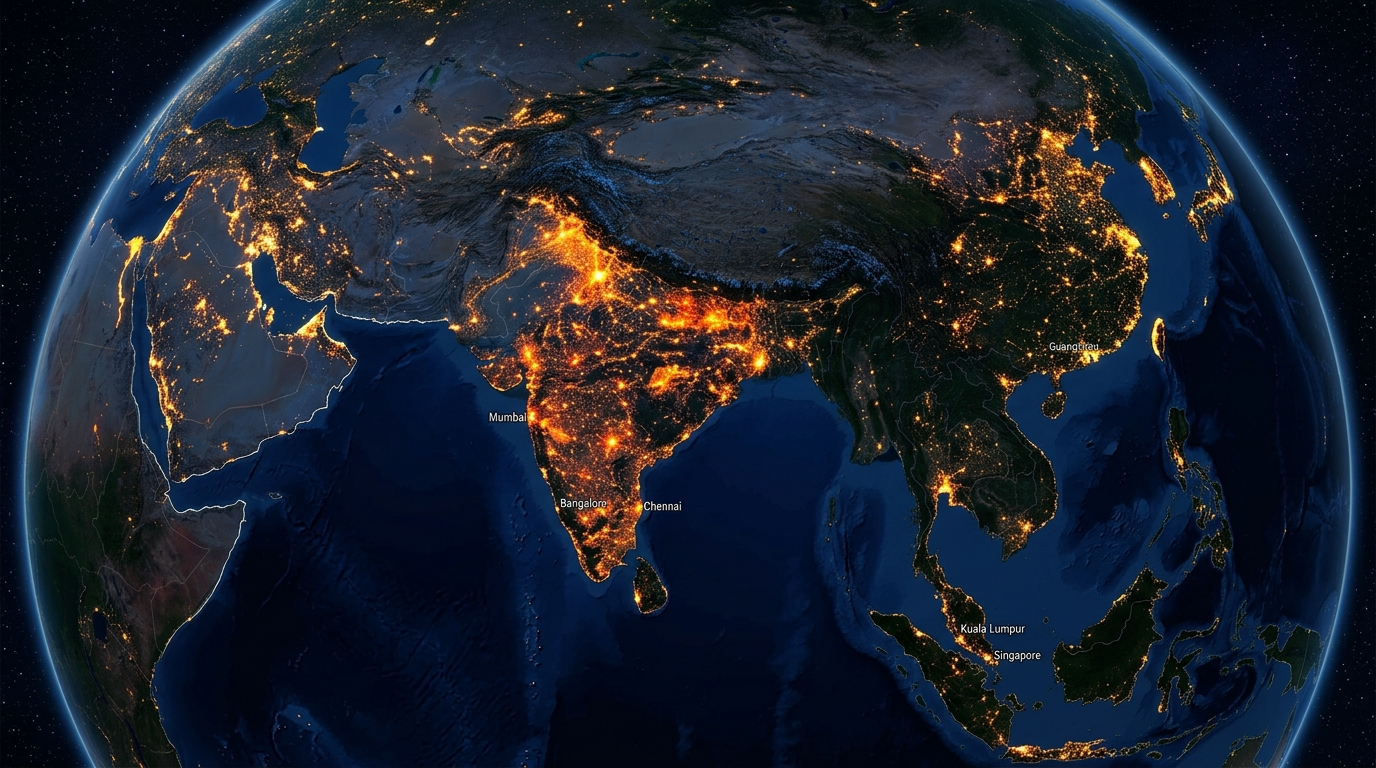
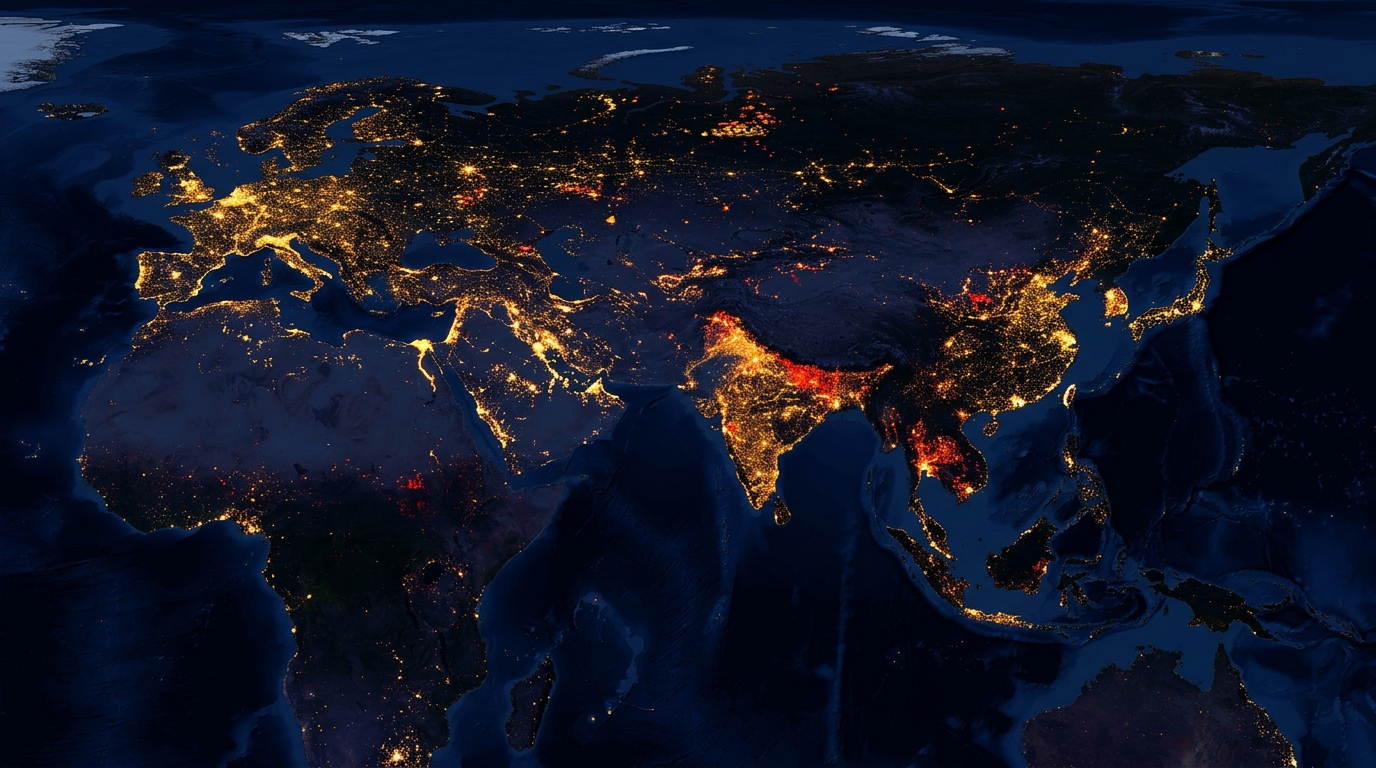
fix(landing): remove city labels from Earth texture, remove scroll mouse text, and intensify reddish-orange fiery wordmark and glowing tagline

diff --git a/src/components/landing/CinematicLanding.tsx b/src/components/landing/CinematicLanding.tsx
@@ -28,7 +28,6 @@ export const CinematicLanding: React.FC<CinematicLandingProps> = ({
   const wordmarkRef = useRef<HTMLDivElement>(null);
   const taglineRef = useRef<HTMLDivElement>(null);
   const exploreBtnRef = useRef<HTMLButtonElement>(null);
-  const scrollIndicatorRef = useRef<HTMLDivElement>(null);
   const darkTransitionOverlayRef = useRef<HTMLDivElement>(null);
 
   const handleExploreClick = () => {
@@ -57,18 +56,6 @@ export const CinematicLanding: React.FC<CinematicLandingProps> = ({
         duration: 0.4,
         ease: 'power2.in',
       });
-    }
-
-    if (scrollIndicatorRef.current) {
-      tl.to(
-        scrollIndicatorRef.current,
-        {
-          opacity: 0,
-          y: 15,
-          duration: 0.3,
-        },
-        0
-      );
     }
 
     // 2. FLAREX Wordmark surges forward into the globe (0.2 - 1.2s)
@@ -155,7 +142,7 @@ export const CinematicLanding: React.FC<CinematicLandingProps> = ({
       {/* Minimal Transparent Header */}
       <LandingHeader onMenuClick={handleExploreClick} />
 
-      {/* 3D High-Clarity WebGL Earth */}
+      {/* 3D High-Clarity WebGL Earth (Clean satellite night map without place names) */}
       <div className="absolute inset-0 z-10">
         <CinematicEarth isTransitioning={hasStartedDive || isTransitioning} />
       </div>
@@ -164,32 +151,30 @@ export const CinematicLanding: React.FC<CinematicLandingProps> = ({
       <div className="absolute inset-0 z-15 pointer-events-none bg-[radial-gradient(ellipse_at_center,_transparent_45%,_rgba(2,2,2,0.85)_100%)]" />
 
       {/* Foreground Hero Content: Big FLAREX Wordmark Visible FROM THE VERY FIRST FRAME */}
-      <div className="relative z-20 flex flex-col items-center justify-between w-full h-full px-6 pt-20 pb-8 pointer-events-none">
-        <div className="flex-1" />
-
+      <div className="relative z-20 flex flex-col items-center justify-center w-full h-full px-6 pointer-events-none">
         {/* Center Container: Brand Fused into Globe Intro */}
         <div
           ref={heroStackRef}
-          className="flex flex-col items-center justify-center text-center max-w-4xl w-full my-auto"
+          className="flex flex-col items-center justify-center text-center max-w-4xl w-full"
         >
           {/* Flame Icon */}
           <div
             ref={flameEmblemRef}
             className="relative mb-2 flex items-center justify-center pointer-events-auto transition-transform duration-300"
           >
-            <div className="absolute w-14 h-14 rounded-full bg-[#ff5533]/30 blur-xl animate-pulse" />
+            <div className="absolute w-14 h-14 rounded-full bg-[#ff5533]/35 blur-xl animate-pulse" />
             <Flame
               size={36}
-              className="text-[#ff5533] fill-[#ff7a22] drop-shadow-[0_0_24px_rgba(255,95,30,1)] animate-pulse"
+              className="text-[#ff5533] fill-[#ff7a22] drop-shadow-[0_0_26px_rgba(255,95,30,1)] animate-pulse"
             />
           </div>
 
-          {/* Large Cinematic FLAREX Wordmark (Visible Immediately) */}
+          {/* Large Cinematic Full Reddish-Orange FLAREX Wordmark with Outline Glow */}
           <div
             ref={wordmarkRef}
-            className="fiery-wordmark select-none text-center transform transition-all duration-300 pointer-events-auto"
+            className="fiery-wordmark select-none text-center transform transition-all duration-300 pointer-events-auto my-1"
           >
-            <h1 className="text-5xl sm:text-7xl md:text-8xl font-semibold tracking-[0.18em] uppercase flex items-center justify-center">
+            <h1 className="text-5xl sm:text-7xl md:text-8xl font-bold tracking-[0.18em] uppercase flex items-center justify-center">
               <span className="fiery-letter-body">F</span>
               <span className="fiery-letter-body">L</span>
               <span className="fiery-letter-body">A</span>
@@ -199,17 +184,17 @@ export const CinematicLanding: React.FC<CinematicLandingProps> = ({
             </h1>
           </div>
 
-          {/* Tagline (Visible Immediately) */}
+          {/* Glowing Tagline for Maximum Visibility */}
           <div
             ref={taglineRef}
-            className="mt-3 text-[9.5px] sm:text-xs font-semibold tracking-[0.3em] text-[#d4c3bd] uppercase font-[family-name:var(--font-oxanium),sans-serif]"
+            className="fiery-tagline mt-3 transition-all duration-300"
           >
             IGNITING{' '}
-            <span className="text-[#ff681e] drop-shadow-[0_0_8px_rgba(255,104,30,0.85)] font-bold">
+            <span className="fiery-tagline-highlight">
               INTELLIGENCE
             </span>
             . PROTECTING{' '}
-            <span className="text-[#ff681e] drop-shadow-[0_0_8px_rgba(255,104,30,0.85)] font-bold">
+            <span className="fiery-tagline-highlight">
               TOMORROW
             </span>
             .
@@ -222,28 +207,14 @@ export const CinematicLanding: React.FC<CinematicLandingProps> = ({
               type="button"
               onClick={handleExploreClick}
               disabled={hasStartedDive}
-              className="group relative px-11 py-3.5 rounded-xl text-xs sm:text-sm font-bold tracking-[0.28em] text-[#fbf5f2] uppercase bg-[#080808]/45 border border-[#ff681e]/40 backdrop-blur-md shadow-[0_0_22px_rgba(255,85,35,0.25)] hover:shadow-[0_0_38px_rgba(255,106,26,0.8)] hover:border-[#ff8b32] hover:bg-[#140603]/80 transition-all duration-300 transform hover:scale-105 active:scale-95 font-[family-name:var(--font-oxanium),sans-serif]"
+              className="group relative px-12 py-3.5 rounded-xl text-xs sm:text-sm font-bold tracking-[0.28em] text-[#fbf5f2] uppercase bg-[#080808]/50 border border-[#ff681e]/45 backdrop-blur-md shadow-[0_0_25px_rgba(255,85,35,0.3)] hover:shadow-[0_0_40px_rgba(255,106,26,0.85)] hover:border-[#ff8b32] hover:bg-[#140603]/85 transition-all duration-300 transform hover:scale-105 active:scale-95 font-[family-name:var(--font-oxanium),sans-serif]"
             >
               <span className="relative z-10 flex items-center gap-2">
                 EXPLORE
               </span>
-              <div className="absolute inset-0 rounded-xl bg-gradient-to-r from-transparent via-[#ff681e]/20 to-transparent opacity-0 group-hover:opacity-100 transition-opacity duration-300" />
+              <div className="absolute inset-0 rounded-xl bg-gradient-to-r from-transparent via-[#ff681e]/25 to-transparent opacity-0 group-hover:opacity-100 transition-opacity duration-300" />
             </button>
           </div>
-        </div>
-
-        {/* Bottom Scroll Indicator */}
-        <div
-          ref={scrollIndicatorRef}
-          onClick={handleExploreClick}
-          className="flex flex-col items-center gap-1.5 pointer-events-auto cursor-pointer text-[#8c766e] hover:text-[#ff7a45] transition-colors"
-        >
-          <div className="w-4 h-7 rounded-full border border-white/20 flex items-start justify-center p-1">
-            <div className="w-1 h-1.5 rounded-full bg-[#ff681e] animate-bounce mt-0.5" />
-          </div>
-          <span className="text-[8px] font-bold tracking-[0.22em] uppercase font-[family-name:var(--font-oxanium),sans-serif]">
-            SCROLL TO DISCOVER
-          </span>
         </div>
       </div>
 

diff --git a/src/components/landing/CinematicEarth.tsx b/src/components/landing/CinematicEarth.tsx
@@ -6,10 +6,9 @@ import gsap from 'gsap';
 
 interface CinematicEarthProps {
   isTransitioning: boolean;
-  phase?: 'idle' | 'forming' | 'revealed' | 'diving';
 }
 
-export const CinematicEarth: React.FC<CinematicEarthProps> = ({ isTransitioning, phase = 'idle' }) => {
+export const CinematicEarth: React.FC<CinematicEarthProps> = ({ isTransitioning }) => {
   const containerRef = useRef<HTMLDivElement>(null);
   const sceneRef = useRef<THREE.Scene | null>(null);
   const cameraRef = useRef<THREE.PerspectiveCamera | null>(null);
@@ -21,9 +20,9 @@ export const CinematicEarth: React.FC<CinematicEarthProps> = ({ isTransitioning,
 
   const isDraggingRef = useRef(false);
   const previousMousePositionRef = useRef({ x: 0, y: 0 });
-  // Fine-tuned angles so India is squarely front-and-center
-  const targetRotationRef = useRef({ x: 0.16, y: 4.72 });
-  const currentRotationRef = useRef({ x: 0.16, y: 4.72 });
+  // Set default rotation so India is perfectly centered facing the camera
+  const targetRotationRef = useRef({ x: 0.22, y: 4.22 });
+  const currentRotationRef = useRef({ x: 0.22, y: 4.22 });
   const idleTimerRef = useRef<NodeJS.Timeout | null>(null);
   const isIdleRef = useRef(true);
 
@@ -50,7 +49,7 @@ export const CinematicEarth: React.FC<CinematicEarthProps> = ({ isTransitioning,
     renderer.setSize(width, height);
     renderer.setPixelRatio(Math.min(window.devicePixelRatio, 2));
     renderer.toneMapping = THREE.ACESFilmicToneMapping;
-    renderer.toneMappingExposure = 1.3;
+    renderer.toneMappingExposure = 1.35;
     renderer.outputColorSpace = THREE.SRGBColorSpace;
     container.appendChild(renderer.domElement);
     rendererRef.current = renderer;
@@ -63,19 +62,9 @@ export const CinematicEarth: React.FC<CinematicEarthProps> = ({ isTransitioning,
     scene.add(earthGroup);
     earthGroupRef.current = earthGroup;
 
-    // 4. TEXTURE LOADER
+    // 4. CLEAN NASA SATELLITE NIGHT MAP (ZERO LABELS / PLACE NAMES)
     const textureLoader = new THREE.TextureLoader();
-    
-    // High-clarity satellite map centered on India & Asia
     const earthTexture = textureLoader.load('/cinematic/earth_hd_clarity.jpg', (tex) => {
-      tex.colorSpace = THREE.SRGBColorSpace;
-      tex.anisotropy = maxAnisotropy;
-      tex.minFilter = THREE.LinearMipmapLinearFilter;
-      tex.magFilter = THREE.LinearFilter;
-      tex.generateMipmaps = true;
-    });
-
-    const nightTexture = textureLoader.load('/cinematic/earth_night_map.jpg', (tex) => {
       tex.colorSpace = THREE.SRGBColorSpace;
       tex.anisotropy = maxAnisotropy;
       tex.wrapS = THREE.RepeatWrapping;
@@ -91,8 +80,7 @@ export const CinematicEarth: React.FC<CinematicEarthProps> = ({ isTransitioning,
     const earthMaterial = new THREE.ShaderMaterial({
       uniforms: {
         map: { value: earthTexture },
-        nightMap: { value: nightTexture },
-        sunDirection: { value: new THREE.Vector3(-0.82, 0.68, 0.42).normalize() },
+        sunDirection: { value: new THREE.Vector3(-0.85, 0.65, 0.45).normalize() },
       },
       vertexShader: `
         varying vec2 vUv;
@@ -107,7 +95,6 @@ export const CinematicEarth: React.FC<CinematicEarthProps> = ({ isTransitioning,
       `,
       fragmentShader: `
         uniform sampler2D map;
-        uniform sampler2D nightMap;
         uniform vec3 sunDirection;
         varying vec2 vUv;
         varying vec3 vNormal;
@@ -117,21 +104,17 @@ export const CinematicEarth: React.FC<CinematicEarthProps> = ({ isTransitioning,
           vec3 normal = normalize(vNormal);
           vec3 viewDir = normalize(-vPosition);
           
-          vec4 hdColor = texture2D(map, vUv);
-          vec4 nightColor = texture2D(nightMap, vUv);
+          vec4 tex = texture2D(map, vUv);
           
-          // Combine detailed terrain with intense golden night lights
-          vec3 earthBase = mix(hdColor.rgb, nightColor.rgb * 1.35, 0.32);
-          
-          // Enhanced contrast for crystal clarity
-          earthBase = pow(earthBase, vec3(0.94)) * 1.32;
+          // Pure crystal clarity terrain & glowing amber city lights (zero text labels)
+          vec3 earthBase = pow(tex.rgb, vec3(0.92)) * 1.55;
           
           // Solar Rim along upper-left horizon (incandescent fiery corona)
           float fresnel = pow(1.0 - max(0.0, dot(normal, viewDir)), 3.8);
           float sunLimb = max(0.0, dot(normal, sunDirection));
           
           // Fiery molten gold to crimson horizon rim
-          vec3 rimGlow = mix(vec3(0.95, 0.18, 0.02), vec3(1.0, 0.82, 0.32), pow(sunLimb, 1.3)) * fresnel * (0.32 + 3.6 * pow(sunLimb, 1.6));
+          vec3 rimGlow = mix(vec3(0.95, 0.18, 0.02), vec3(1.0, 0.82, 0.32), pow(sunLimb, 1.3)) * fresnel * (0.35 + 3.8 * pow(sunLimb, 1.6));
           
           vec3 finalColor = earthBase + rimGlow;
           gl_FragColor = vec4(finalColor, 1.0);
@@ -147,7 +130,7 @@ export const CinematicEarth: React.FC<CinematicEarthProps> = ({ isTransitioning,
     const atmosphereGeometry = new THREE.SphereGeometry(earthRadius * 1.01, 96, 96);
     const atmosphereMaterial = new THREE.ShaderMaterial({
       uniforms: {
-        sunDirection: { value: new THREE.Vector3(-0.82, 0.68, 0.42).normalize() },
+        sunDirection: { value: new THREE.Vector3(-0.85, 0.65, 0.45).normalize() },
       },
       vertexShader: `
         varying vec3 vNormal;
@@ -408,27 +391,16 @@ export const CinematicEarth: React.FC<CinematicEarthProps> = ({ isTransitioning,
 
     const tl = gsap.timeline();
 
-    // 0.7 - 1.5s: Earth moves slightly closer
-    tl.to(
-      camera.position,
-      {
-        z: 3.9,
-        duration: 1.5,
-        ease: 'power2.out',
-      },
-      0.7
-    );
-
-    // 3.4 - 4.2s: Continuous forward camera push into the Earth
+    // 0.0 - 1.2s: Continuous forward camera push into the Earth
     tl.to(
       camera.position,
       {
         z: 2.2,
         y: 0.1,
-        duration: 1.3,
+        duration: 1.2,
         ease: 'power3.in',
       },
-      3.2
+      0
     );
 
     tl.to(
@@ -437,10 +409,10 @@ export const CinematicEarth: React.FC<CinematicEarthProps> = ({ isTransitioning,
         x: 1.6,
         y: 1.6,
         z: 1.6,
-        duration: 1.3,
+        duration: 1.2,
         ease: 'power3.in',
       },
-      3.2
+      0
     );
   }, [isTransitioning]);
 

diff --git a/src/app/globals.css b/src/app/globals.css
@@ -1843,34 +1843,36 @@ button {
 
 .fiery-wordmark {
   font-family: var(--font-oxanium), 'Orbitron', 'Space Grotesk', system-ui, sans-serif;
-  font-weight: 600;
+  font-weight: 700;
   letter-spacing: 0.18em;
   text-transform: uppercase;
   position: relative;
   display: inline-flex;
   align-items: center;
   justify-content: center;
+  filter: drop-shadow(0 0 20px rgba(255, 70, 10, 0.7));
 }
 
 .fiery-letter-body {
   background-image: linear-gradient(
     180deg,
-    #ffd08a 0%,
-    #ff8a38 18%,
-    #ff4b22 45%,
-    #b51f12 72%,
-    #61100c 100%
+    #ffffff 0%,
+    #ffdd55 10%,
+    #ff7700 32%,
+    #ff2600 64%,
+    #b30000 100%
   );
   background-size: 100% 200%;
-  animation: thermalMagmaFlow 6s ease-in-out infinite;
+  animation: thermalMagmaFlow 5s ease-in-out infinite;
   -webkit-background-clip: text;
   -webkit-text-fill-color: transparent;
-  -webkit-text-stroke: 1px rgba(255, 106, 40, 0.95);
+  -webkit-text-stroke: 1.5px #ff4500;
   text-shadow:
-    0 0 2px rgba(255, 220, 170, 0.95),
-    0 0 6px rgba(255, 110, 45, 0.70),
-    0 0 16px rgba(255, 65, 25, 0.42),
-    0 0 34px rgba(150, 20, 8, 0.25);
+    0 0 4px rgba(255, 240, 180, 0.95),
+    0 0 12px rgba(255, 120, 20, 0.95),
+    0 0 26px rgba(255, 60, 0, 0.85),
+    0 0 55px rgba(255, 30, 0, 0.65),
+    0 0 90px rgba(200, 20, 0, 0.45);
   display: inline-block;
   transform: translateZ(0);
 }
@@ -1879,22 +1881,46 @@ button {
   background-image: linear-gradient(
     180deg,
     #ffffff 0%,
-    #ffe8b8 14%,
-    #ffa333 36%,
-    #ff3300 68%,
-    #940e05 100%
+    #fff088 12%,
+    #ffa200 34%,
+    #ff1a00 66%,
+    #990000 100%
   );
   background-size: 100% 200%;
-  animation: thermalMagmaFlow 4.5s ease-in-out infinite;
+  animation: thermalMagmaFlow 4s ease-in-out infinite;
   -webkit-background-clip: text;
   -webkit-text-fill-color: transparent;
-  -webkit-text-stroke: 1.2px rgba(255, 140, 60, 1);
+  -webkit-text-stroke: 1.8px #ff5500;
   text-shadow:
-    0 0 3px rgba(255, 240, 200, 1),
-    0 0 8px rgba(255, 130, 50, 0.85),
-    0 0 22px rgba(255, 80, 30, 0.55),
-    0 0 45px rgba(200, 30, 10, 0.35);
+    0 0 5px rgba(255, 255, 200, 1),
+    0 0 15px rgba(255, 140, 30, 1),
+    0 0 35px rgba(255, 70, 10, 0.9),
+    0 0 70px rgba(255, 30, 0, 0.75),
+    0 0 110px rgba(200, 20, 0, 0.55);
   display: inline-block;
   transform: translateZ(0);
 }
+
+.fiery-tagline {
+  font-family: var(--font-oxanium), 'Orbitron', sans-serif;
+  font-size: 10.5px;
+  font-weight: 700;
+  letter-spacing: 0.32em;
+  text-transform: uppercase;
+  color: #fff4ed;
+  text-shadow:
+    0 0 6px rgba(255, 130, 40, 0.9),
+    0 0 16px rgba(255, 70, 10, 0.7),
+    0 0 30px rgba(255, 40, 0, 0.45);
+}
+
+.fiery-tagline-highlight {
+  color: #ff7a1a;
+  font-weight: 800;
+  text-shadow:
+    0 0 8px rgba(255, 160, 40, 1),
+    0 0 22px rgba(255, 90, 20, 0.95),
+    0 0 40px rgba(255, 50, 0, 0.8);
+}
+
 
